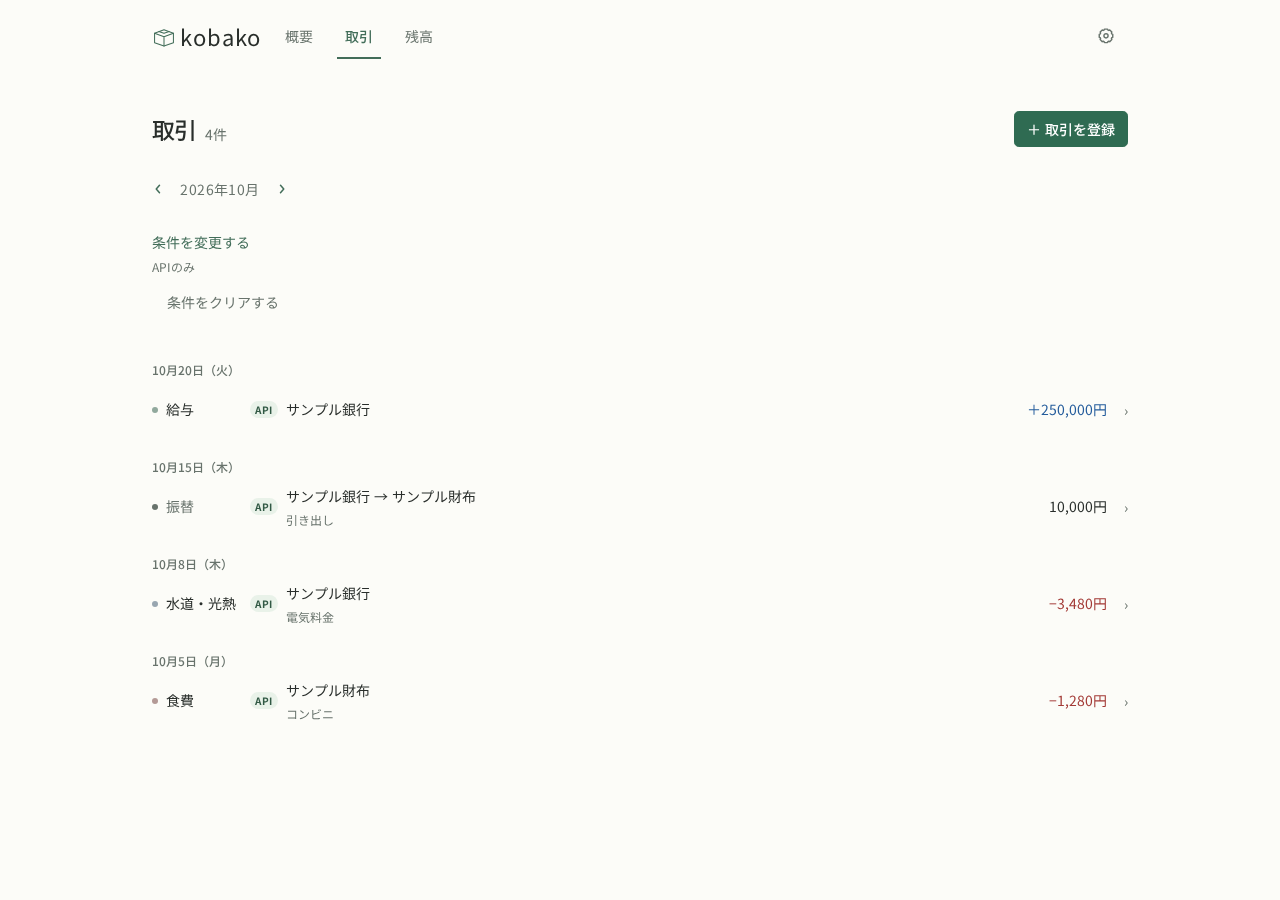
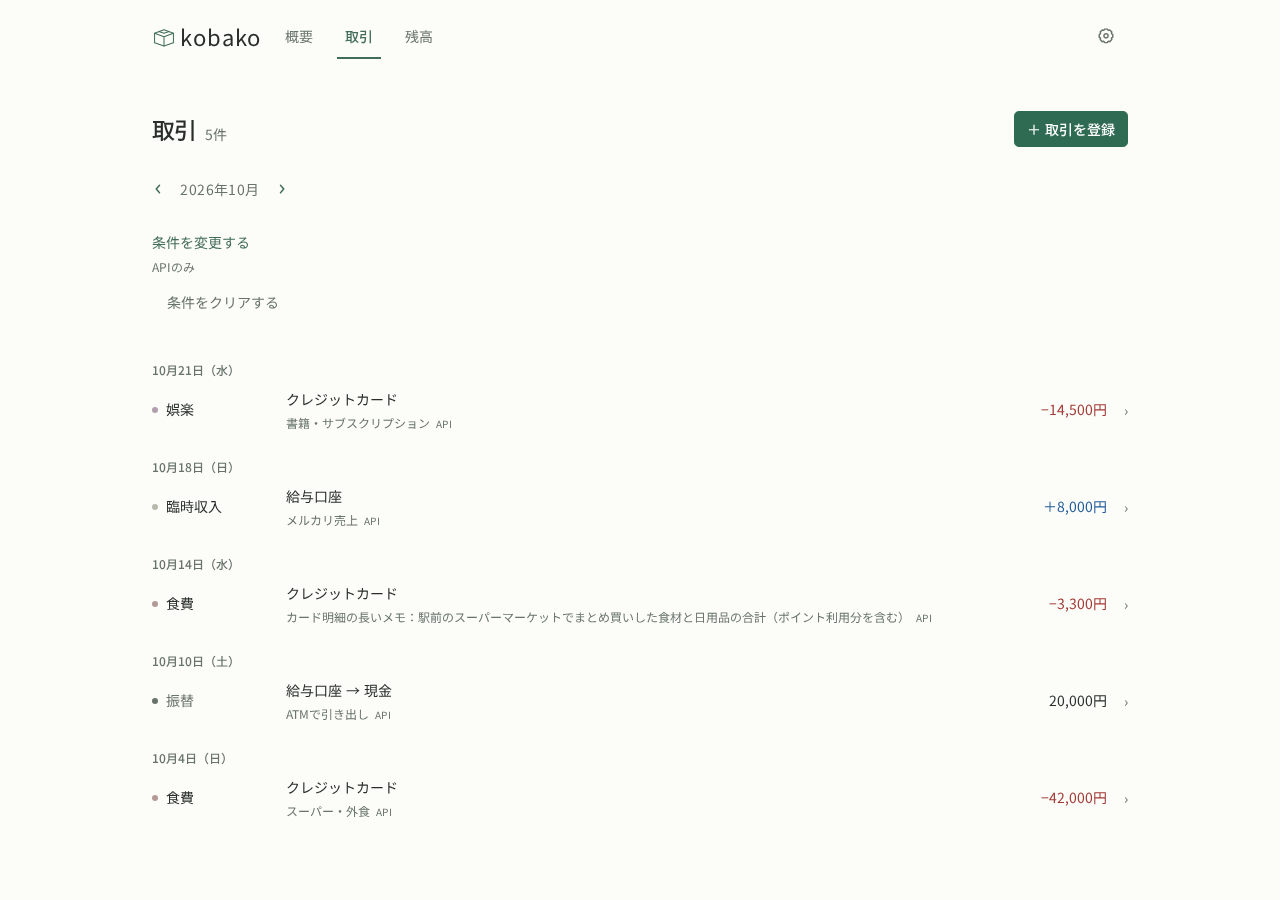
feat(web): show API mark as small text at the end of the memo line

diff --git a/apps/web/app/transactions/transaction-row.tsx b/apps/web/app/transactions/transaction-row.tsx
@@ -47,6 +47,44 @@ function transactionLabel(transaction: ListedTransaction, showMemo: boolean): st
     .join(' ');
 }
 
+/**
+ * The second line of a row: the memo, then a small "API" mark at its end. The mark is part of the
+ * row link (no role, no tab stop), and with a mark the memo truncates so the mark stays whole.
+ */
+export function MemoLine({ memo, api }: { memo: string | null | undefined; api: boolean }) {
+  if (!memo && !api) return null;
+  return (
+    <span
+      data-slot="memo-line"
+      className={[
+        transactionStyles['memo-line'],
+        api ? transactionStyles['memo-line-with-badge'] : null,
+      ]
+        .filter(Boolean)
+        .join(' ')}
+    >
+      {memo ? (
+        <span
+          data-slot="transaction-memo"
+          className={transactionStyles['transaction-memo']}
+          title={memo}
+        >
+          {memo}
+        </span>
+      ) : null}
+      {api ? (
+        <span
+          data-slot="origin-badge"
+          className={transactionStyles['origin-badge']}
+          aria-hidden="true"
+        >
+          API
+        </span>
+      ) : null}
+    </span>
+  );
+}
+
 export function TransactionRow({
   transaction,
   showMemo = false,
@@ -99,15 +137,6 @@ export function TransactionRow({
             >
               {transaction.categoryName}
             </span>
-            {transaction.origin === 'api' ? (
-              <span
-                data-slot="origin-badge"
-                className={transactionStyles['origin-badge']}
-                aria-hidden="true"
-              >
-                API
-              </span>
-            ) : null}
           </span>
           <span data-slot="transaction-main" className={transactionStyles['transaction-main']}>
             {assetName ? (
@@ -119,15 +148,10 @@ export function TransactionRow({
                 {assetName}
               </span>
             ) : null}
-            {showMemo && transaction.memo ? (
-              <span
-                data-slot="transaction-memo"
-                className={transactionStyles['transaction-memo']}
-                title={transaction.memo}
-              >
-                {transaction.memo}
-              </span>
-            ) : null}
+            <MemoLine
+              memo={showMemo ? transaction.memo : null}
+              api={transaction.origin === 'api'}
+            />
           </span>
           <span className={amountClassName} data-slot="record-amount">
             {amount}
@@ -157,24 +181,13 @@ export function TransactionRow({
         scroll={false}
         aria-label={label}
       >
-        <span className={transactionStyles['transaction-category-cell']}>
-          <CategoryDot type={transaction.type} name={transaction.categoryName} />
-          <span
-            data-slot="transaction-category"
-            className={transactionStyles['transaction-category']}
-            title={transaction.categoryName}
-          >
-            {transaction.categoryName}
-          </span>
-          {transaction.origin === 'api' ? (
-            <span
-              data-slot="origin-badge"
-              className={transactionStyles['origin-badge']}
-              aria-hidden="true"
-            >
-              API
-            </span>
-          ) : null}
+        <CategoryDot type={transaction.type} name={transaction.categoryName} />
+        <span
+          data-slot="transaction-category"
+          className={transactionStyles['transaction-category']}
+          title={transaction.categoryName}
+        >
+          {transaction.categoryName}
         </span>
         <span data-slot="transaction-main" className={transactionStyles['transaction-main']}>
           {assetName ? (
@@ -186,15 +199,7 @@ export function TransactionRow({
               {assetName}
             </span>
           ) : null}
-          {showMemo && transaction.memo ? (
-            <span
-              data-slot="transaction-memo"
-              className={transactionStyles['transaction-memo']}
-              title={transaction.memo}
-            >
-              {transaction.memo}
-            </span>
-          ) : null}
+          <MemoLine memo={showMemo ? transaction.memo : null} api={transaction.origin === 'api'} />
         </span>
         <span className={amountClassName} data-slot="record-amount">
           {amount}

diff --git a/apps/web/app/transactions/transaction-row.module.css b/apps/web/app/transactions/transaction-row.module.css
@@ -34,7 +34,7 @@
   display: grid;
   grid-column: 1 / 3;
   grid-row: 1;
-  grid-template-columns: 0.375rem minmax(0, 1fr) max-content;
+  grid-template-columns: 0.375rem minmax(0, 1fr);
   column-gap: var(--space-dot-text);
   align-self: center;
   min-width: 0;
@@ -64,25 +64,27 @@
   min-width: 0;
 }
 
-.origin-badge {
-  display: inline-flex;
-  flex: none;
-  align-self: center;
-  align-items: center;
-  padding: 0.05rem 0.35rem;
-  border-radius: 999px;
-  background: var(--import-positive-soft);
-  color: var(--accent-strong);
-  font-size: 0.625rem;
-  font-weight: 700;
-  letter-spacing: 0.04em;
-  line-height: 1.5;
+/* The memo line: memo first, then the small "API" mark at its end. */
+.memo-line {
+  display: flex;
+  align-items: baseline;
+  gap: 0;
+  min-width: 0;
 }
 
-.transaction-category-cell > .origin-badge {
-  grid-column: 3;
-  grid-row: 1;
-  align-self: center;
+/* Shrinks for a long memo but never grows, so the mark follows the text instead of the column edge. */
+.memo-line > .transaction-memo {
+  flex: 0 1 auto;
+}
+
+/* A quiet continuation of the memo, not a control: the row link stays clickable through it. */
+.origin-badge {
+  flex: none;
+  margin-inline-start: 0.375rem;
+  color: var(--muted);
+  font-size: 0.625rem;
+  letter-spacing: 0.04em;
+  line-height: 1;
 }
 
 /* 端末ごとの表示設定。印は押せない目印で、行のリンクはそのまま生きている。 */
@@ -250,6 +252,13 @@
   white-space: normal;
 }
 
+/* With a mark, a long memo ends in "…" so the mark is never cut off (wins over the wrap above). */
+.transaction-main > .memo-line-with-badge > .transaction-memo {
+  overflow: hidden;
+  text-overflow: ellipsis;
+  white-space: nowrap;
+}
+
 .transaction-list .row-affordance {
   color: var(--muted);
   font-size: var(--text-body);
@@ -304,14 +313,6 @@
   .transaction-category-cell > .transaction-category {
     grid-column: 1;
     padding-inline-start: calc(0.375rem + var(--space-dot-text));
-  }
-
-  /* 狭い幅ではカテゴリ列が 4rem しかなく、横に並べるとカテゴリ名が1文字ずつ折り返すため印を下段へ送る。 */
-  .transaction-category-cell > .origin-badge {
-    grid-column: 1;
-    grid-row: 2;
-    justify-self: start;
-    margin-inline-start: calc(0.375rem + var(--space-dot-text));
   }
 
   .transaction-list .transaction-link > .row-affordance {

diff --git a/apps/web/app/transactions/transfer-row.tsx b/apps/web/app/transactions/transfer-row.tsx
@@ -5,6 +5,7 @@ import uiStyles from '../_components/ui.module.css';
 
 import { formatJapaneseDate, formatYen } from '../../src/lib/format';
 import { withSelectedMonth } from '../../src/lib/month-navigation';
+import { MemoLine } from './transaction-row';
 
 const neutralMoneyClass = uiStyles['money-neutral'] ?? '';
 
@@ -41,30 +42,19 @@ export function TransferRow({
         href={editHref}
         aria-label={label}
       >
-        <span className={transactionStyles['transaction-category-cell']}>
-          <span
-            data-slot="category-dot"
-            className={transactionStyles['transfer-dot']}
-            aria-hidden="true"
-          />
-          <span
-            data-slot="transaction-category"
-            className={[
-              transactionStyles['transaction-category'],
-              transactionStyles['transfer-type'],
-            ].join(' ')}
-          >
-            振替
-          </span>
-          {transfer.origin === 'api' ? (
-            <span
-              data-slot="origin-badge"
-              className={transactionStyles['origin-badge']}
-              aria-hidden="true"
-            >
-              API
-            </span>
-          ) : null}
+        <span
+          data-slot="category-dot"
+          className={transactionStyles['transfer-dot']}
+          aria-hidden="true"
+        />
+        <span
+          data-slot="transaction-category"
+          className={[
+            transactionStyles['transaction-category'],
+            transactionStyles['transfer-type'],
+          ].join(' ')}
+        >
+          振替
         </span>
         <span
           data-slot="transaction-main-transfer"
@@ -93,15 +83,7 @@ export function TransferRow({
               </span>
             </span>
           </span>
-          {showMemo && transfer.memo ? (
-            <span
-              data-slot="transaction-memo"
-              className={transactionStyles['transaction-memo']}
-              title={transfer.memo}
-            >
-              {transfer.memo}
-            </span>
-          ) : null}
+          <MemoLine memo={showMemo ? transfer.memo : null} api={transfer.origin === 'api'} />
         </span>
         <span
           className={[transactionStyles['record-amount'], neutralMoneyClass].join(' ')}
